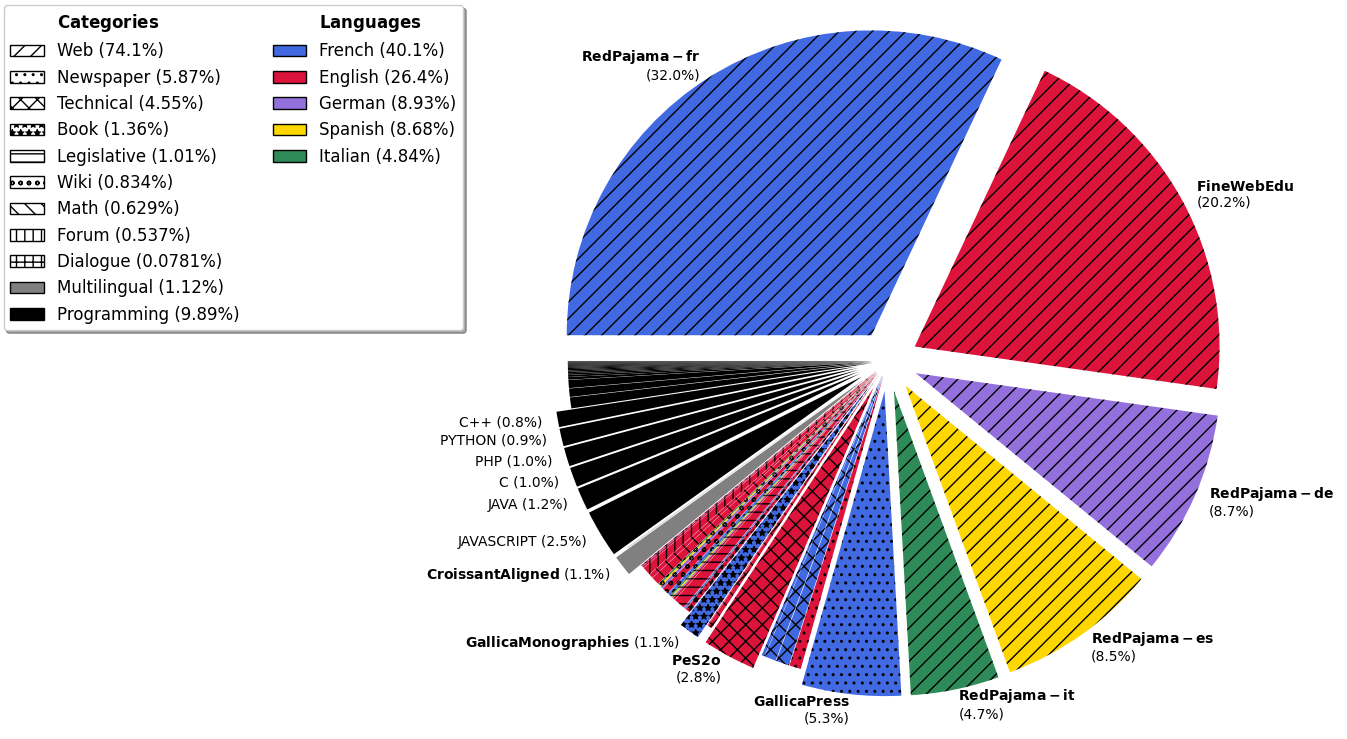
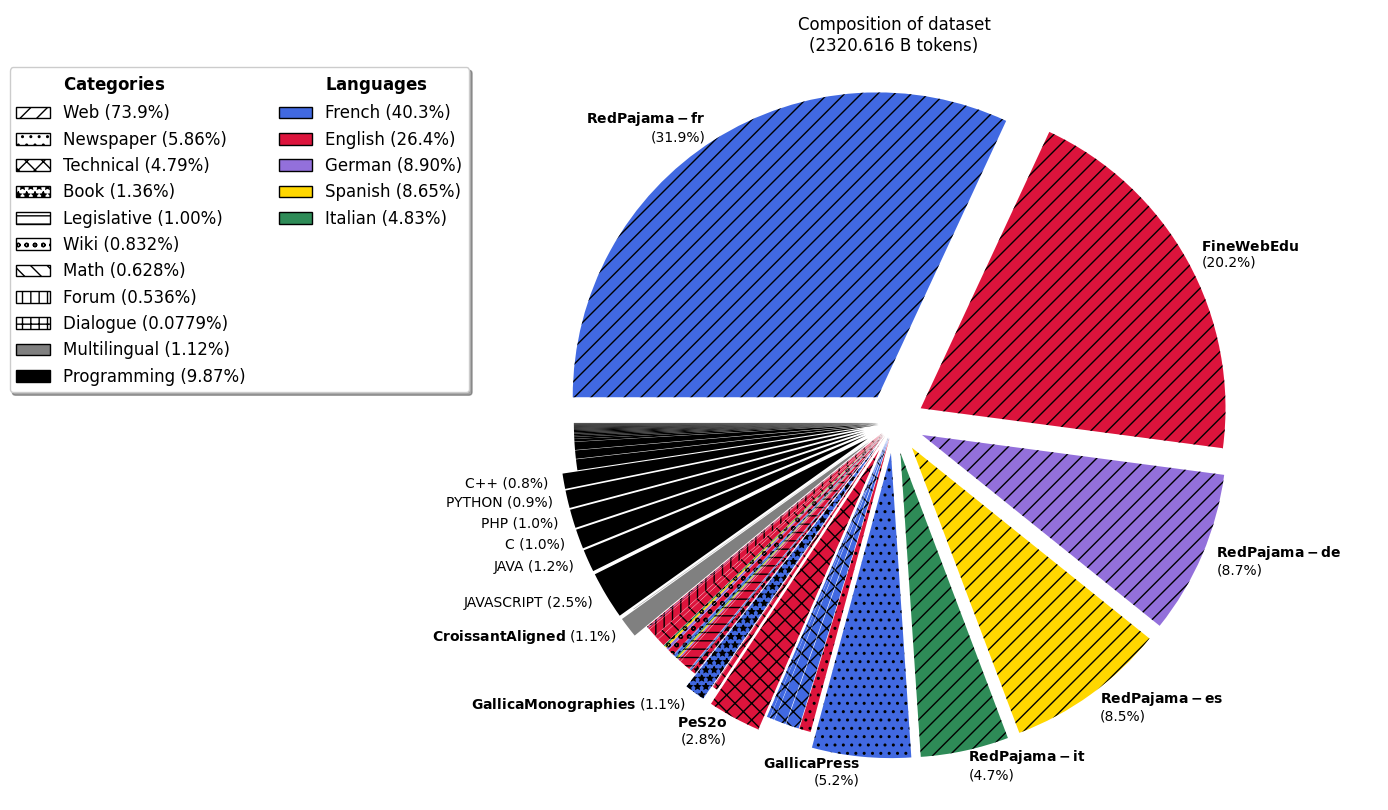
Add distribution of dataset (composition) with training (upsampling) weights

Changed region(s): [[0.3118, 0.0, 0.9978, 0.9959], [0.0, 0.0, 0.343, 0.498], [0.1871, 0.0, 0.343, 0.2801]]

diff --git a/assets/hugging_face/generate_dataset_table.py b/assets/hugging_face/generate_dataset_table.py
@@ -8,10 +8,12 @@ import mistune
 import numpy as np
 import pandas as pd
 import slugify
+import yaml
 
 _parent_folder = os.path.dirname(os.path.dirname(os.path.dirname(os.path.realpath(__file__))))
-_stats_filename = os.path.join(_parent_folder, "assets", "stats_datasets.csv")
-_stats_filename_detailed = os.path.join(_parent_folder, "assets", "stats_datasets_detailed.csv")
+_asset_folder = os.path.join(_parent_folder, "assets")
+_stats_filename = os.path.join(_asset_folder, "stats_datasets.csv")
+_stats_filename_detailed = os.path.join(_asset_folder, "stats_datasets_detailed.csv")
 
 USE_HATCH_FOR_CATEGORIES = True
 
@@ -64,19 +66,27 @@ def norm_field(key, val, trace_error=None):
     return key, val
 
 
+_category_map = {
+    "legi_written": "Legislative Texts",
+    "legi_spoken": "Legislative Transcripts",
+    "legi_dialogue": "Legislative Transcripts",
+    "aligned": "Multilingual Parallel Corpora",
+}
+
+
+def format_category(category):
+    category = _category_map.get(category.lower(), category)
+    category = " ".join([w.capitalize() for w in category.replace("_", " ").split()])
+    return category
+
+
 def compile_stats(row):
     if row["language"] == "code":
         row["language"] = f"{row['subset']}".upper()
 
     category = row["category"]
-    category = {
-        "legi_written": "Legislative Texts",
-        "legi_spoken": "Legislative Transcripts",
-        "legi_dialogue": "Legislative Transcripts",
-        "aligned": "Multilingual Parallel Corpora",
-    }.get(category.lower(), category)
-    category = " ".join([w.capitalize() for w in category.replace("_", " ").split()])
-    row["category"] = category
+    row["category_raw"] = category
+    row["category"] = format_category(category)
 
     subset = row["subset"]
     subset = {
@@ -252,7 +262,7 @@ def to_generic_language(lang, parallel=False):
     return lang
 
 
-def load_stats():
+def load_stats(exclude_persee=True):
     data = {}
     for stat_filename, only_names, excluded_names in [
         (_stats_filename, None, _detail_datasets),
@@ -267,7 +277,7 @@ def load_stats():
                 orig_name = row["name"]
                 row = compile_stats(row)
                 name = row["name"]
-                if name in ["Persee"]:
+                if exclude_persee and name in ["Persee"]:
                     # Exclude from released data
                     continue
                 if only_names and name not in only_names:
@@ -520,13 +530,14 @@ if __name__ == "__main__":
     parser.add_argument(
         "output_csv",
         default=os.path.join(os.path.dirname(os.path.realpath(__file__)), "metadata", "dataset_composition.csv"),
-        help="Output HTML file",
+        help="Output CSV file",
         nargs="?",
     )
     parser.add_argument(
         "output_main",
         default=os.path.join(os.path.dirname(os.path.realpath(__file__)), "README_dataset.md"),
-        help="Output main markdown file (with the HTML table included in it)",
+        help="Output main markdown file (with the HTML table included in it)."
+        " Only the table in it (between special tags) will be replaced.",
         nargs="?",
     )
     parser.add_argument(
@@ -534,10 +545,46 @@ if __name__ == "__main__":
         default="h4",
         help="HTML headers for the table (if None, it will just be centered text)",
     )
+    parser.add_argument(
+        "--pie",
+        default="dataset",
+        choices=["none", "dataset", "training_weights"],
+        help="Which pie chart to plot."
+        "'none' for no pie chart."
+        "'dataset' for dataset distribution."
+        "'training_weights' for dataset distribution taking into account training weights.",
+    )
+    parser.add_argument(
+        "--include_persee",
+        dest="exclude_persee",
+        action="store_false",
+        default=True,
+        help="Weither to add Persee in the dataset statistics",
+    )
     args = parser.parse_args()
 
+    if args.pie == "training_weights":
+        _num_epochs_filename = os.path.join(_asset_folder, "dataset_weights.yaml")
+        assert os.path.isfile(_num_epochs_filename), f"File '{_num_epochs_filename}' does not exist"
+        print(f"Using training weights from '{_num_epochs_filename}'")
+        with open(_num_epochs_filename) as f:
+            _num_epochs = yaml.safe_load(f)
+
+        def get_training_weight(category, language):
+            k = f"{language}--{category}"
+            if k not in _num_epochs:
+                print(f"Warning: No number of epochs for '{k}'")
+                import pdb
+
+                pdb.set_trace()
+            return _num_epochs[k]
+    else:
+
+        def get_training_weight(*kargs, **kwargs):
+            return 1
+
     plt.figure()  # For the pie charts, etc.
-    df = load_stats()
+    df = load_stats(exclude_persee=args.exclude_persee)
     print(df)
 
     categories = df["category"].unique()
@@ -643,7 +690,7 @@ if __name__ == "__main__":
         with open(args.output_main, "w") as f_out:
             f_out.write(new_content)
 
-    if True:
+    if args.pie != "none":
         # Plot pie
 
         map_hatch = {
@@ -708,8 +755,10 @@ if __name__ == "__main__":
             count_per_language = {}
             for _, row in df.iterrows():
                 category = row["category"]
+                category_raw = row["category_raw"]
                 if category.startswith("Legislative"):
                     category = "Legislative"
+                language_raw = to_generic_language(row["language"], parallel=False)
                 language = to_generic_language(row["language"], parallel=True)
                 subset = row["name"]
                 if language == "code":
@@ -718,7 +767,9 @@ if __name__ == "__main__":
                     continue
                 if subset == "RedPajama":
                     subset += f"-{row['language']}"
-                pie_values.append(row[STAT_NAME])
+                amount_value = row[STAT_NAME]
+                amount_value *= get_training_weight(category_raw, language_raw)
+                pie_values.append(amount_value)
                 pie_categories.append(category)
                 pie_languages.append(language)
                 pie_labels.append(subset)
@@ -776,6 +827,9 @@ if __name__ == "__main__":
             sum_values = sum(pie_values)
             pie_values = [v / sum_values * 100 if sum_values else 0 for v in pie_values]
             for i, v in enumerate(pie_values):
+                # if "persee" in pie_labels[i].lower():
+                #     # Force to indicate Persee that is special
+                #     continue
                 if v < min_percent_for_label:
                     pie_labels[i] = ""  # "other"
                     # pie_hatches[i] = pie_hatches[i] * 2
@@ -841,6 +895,8 @@ if __name__ == "__main__":
                 loc="best",
                 bbox_to_anchor=(-0.1, 0.0, 0.5, 1),
             )
-            # plt.title(STAT_NAME)
+            dataset_name = "training dataset" if args.pie == "training_weights" else "dataset"
+            title = f"Composition of {dataset_name}\n({round(sum_values, 3)} {STAT_NAME})"
+            plt.title(title)
 
         plt.show()
